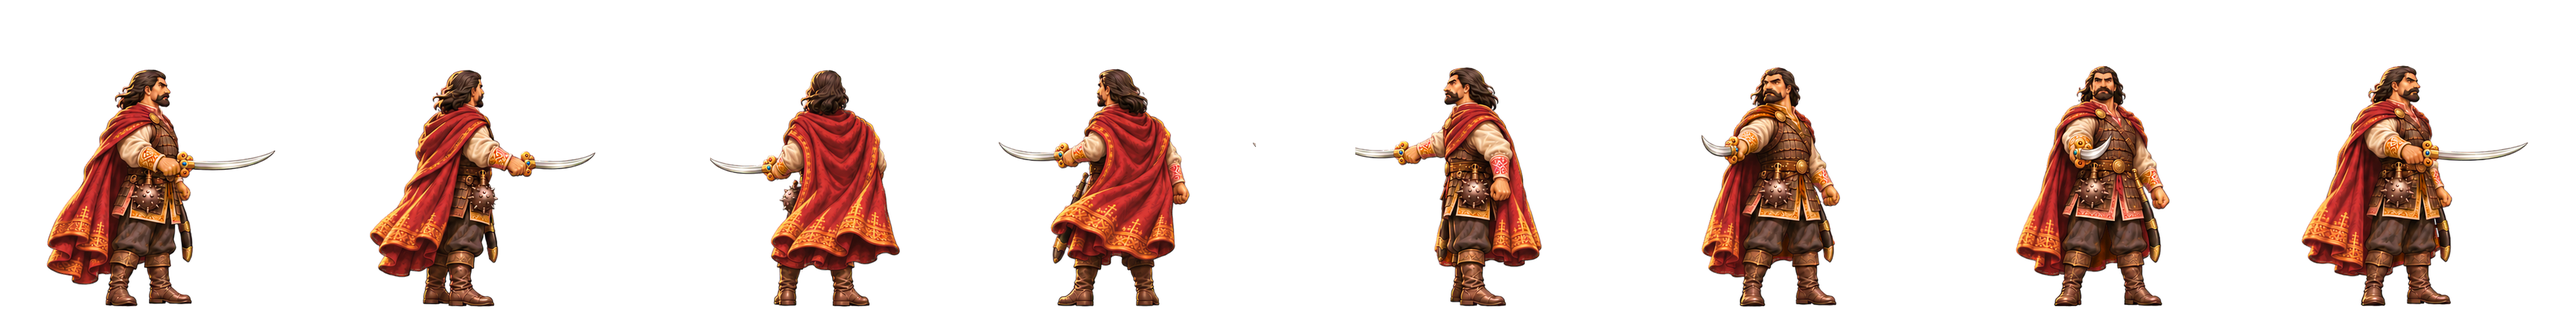
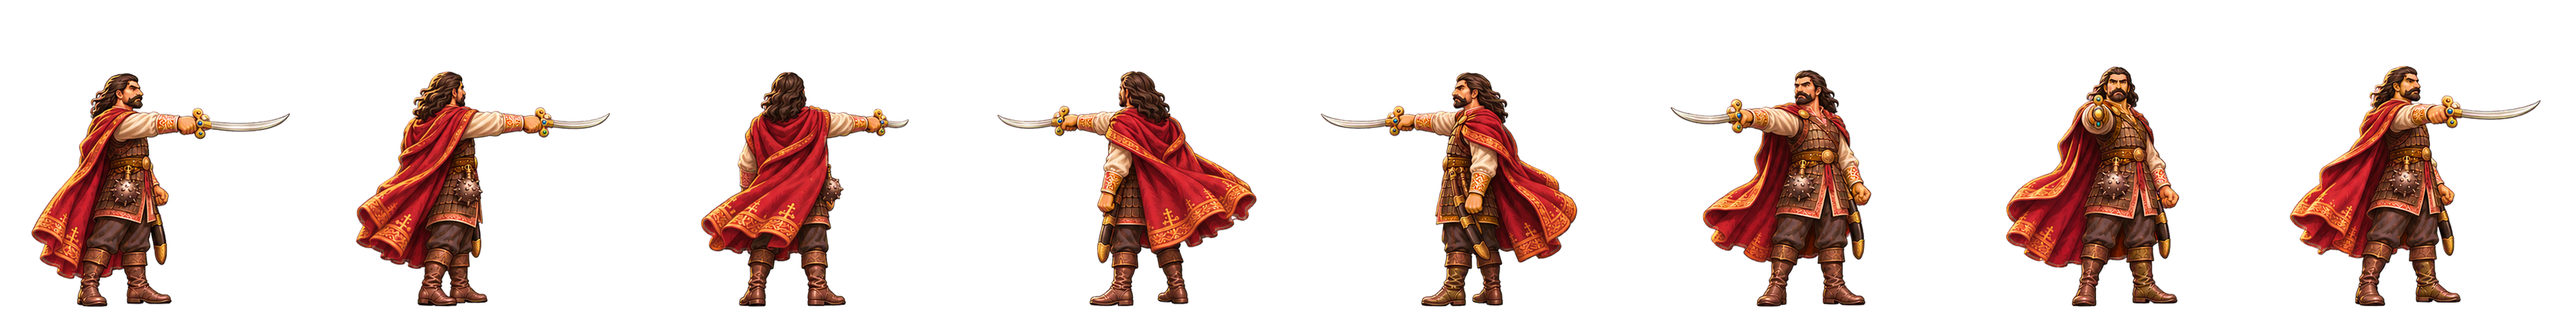
Vihor sa sabljom: ruka skroz ispružena, sečivo kruži oko Marka (Codex DOPUNA-41)
Codex je ponovo nacrtao vihor: desna ruka je ispružena, a sablja je njen produžetak, pa sečivo kruži levo, desno i ka igraču. Pošto je svaki kadar centriran zajedno sa sečivom, telo bi pri okretu bežalo levo-desno; pomak po kadru drži Markove čizme na mestu.

diff --git a/dist/game.js b/dist/game.js
@@ -878,6 +878,8 @@ function basePose(){
 // So do the heavy blow (K, J J K, the held charge), the cut upward (↑+J), the lunge and the whirl (DOPUNA-39).
 // Moves the sabre has no drawings for (block, throw, climbing) are done with the mace for that moment.
 const SABLJA_IN=.6,SABLJA_OUT=.5,SABLJA_HIT=1.3;
+// each frame of the sabre whirl is centred with its blade, so the body drifts while he turns: these shifts keep his boots where they stand at rest
+const VIHOR_DX=[14,7,-4,-20,-21,-32,-28,-6];
 function toggleSablja(){if(!rig?.['marko-sablja-idle'])return;if(!perks.has('oceva-sablja')){toast('Očevu sablju još nemaš. Mladi Turčin je nosi u Opsednutoj tvrđavi.',2.5);return;}
  if(p.sabljaT>0||horseMounted||p.climb||p.attack>0||p.drink>0||p.dash>0||p.throwT>0||!p.grounded)return;
  p.sabljaOut=!p.sablja;p.sabljaT=p.sabljaOut?SABLJA_IN:SABLJA_OUT;p.sablja=true;p.cooldown=Math.max(p.cooldown||0,p.sabljaT*.8);
@@ -896,6 +898,7 @@ function sabljaPose(P){if(!p?.sablja||!P)return P;
  if(to==='skok')frame=p.grounded?n-1:p.attack>0&&p.airAtk?Math.min(4,2+Math.floor((1-p.attack/attackDuration())*3)):p.vy< -150?1:4;
  else if(P.name==='marko-charge-hold'||P.name==='marko-charge-walk')frame=Math.min(3,n-1);
  else if(to==='idle')frame=Math.floor(time*6)%n;
+ else if(to==='vihor'){frame=P.frame%n;return{...P,name:nm,frame,dx:(P.dx||0)+p.face*(VIHOR_DX[frame]||0)};}
  else if(to==='trci')frame=Math.floor(p.gait)%n;
  else{const src=rig?.[P.name]?.frames.length||n;frame=Math.min(n-1,Math.floor((P.frame+.5)*n/src));}
  return{...P,name:nm,frame};}

diff --git a/art/world-pack-03/STATUS-ANIMACIJE.md b/art/world-pack-03/STATUS-ANIMACIJE.md
@@ -712,3 +712,11 @@ DOPUNA-36 B: prelaz-pecina-1 GOTOVO. Minijatura1024x1024, zlatna pozadina/srpska
 DOPUNA-36 B: prelaz-pecina-2 GOTOVO. Minijatura1024x1024, zlatna pozadina/srpska freska. Ugradjeni image_gen; sources/dopuna36-b/; prompts-dopuna36-b.json.
 
 DOPUNA-36 B: prelaz-pecina-anim GOTOVO. Scena12kadrova768x512, traka9216x512,8FPS/petlja. Atlas+manifest+preview.gif u art/animation-pack-04/assets/prelaz-pecina-anim/. Ugradjeni image_gen; sources/dopuna36-b/; prompts-dopuna36-b.json.
+
+DOPUNA-41: marko-sablja-vihor — GOTOVO; 8kadova512x512, petlja, atlas/manifest/frame_layout/frames/preview.gif/qa.json u art/animation-pack-04/assets/marko-sablja-vihor/. renderScale=1.0000, renderAnchor={'x': 256, 'y': 488}. Ugradjeni image_gen, izvor i kalibracija sacuvani; prompt prompts-dopuna41.json, izvor sacuvan.
+
+DOPUNA-41: provera prosla — 8 RGBA kadrova, atlas 4096x512 jednak kadrovima, GIF 8 kadrova, oslonac y=487, renderScale=1; nova ispruzena desna ruka i sablja. Prethodni izvoz sacuvan u art/animation-pack-04/sources/marko-sablja-vihor/dopuna41-before/. Tacan prompt: prompt-dopuna41.txt (ugradjeni image_gen).
+
+DOPUNA-36 B: prelaz-pecina-anim ISPRAVLJENO — nova unutrasnjost Vilinske pecine: plavi kristali, kapi/jezerce, svetleca Ravijojla pokazuje prolaz, Marko ulazi sa Sarcem. 12 kadrova 768x512, atlas 9216x512, manifest i preview.gif; stari logor sacuvan u sources/dopuna36-b/pecina-replaced-20261110-234747. Ugradjeni image_gen; prompt sources/dopuna36-b/pecina-ispravka-prompt.txt.
+
+DOPUNA-36 B: prelaz-podrum-1 GOTOVO. Minijatura1024x1024, zlatna pozadina/srpska freska. Ugradjeni image_gen; sources/dopuna36-b/; prompts-dopuna36-b.json.
